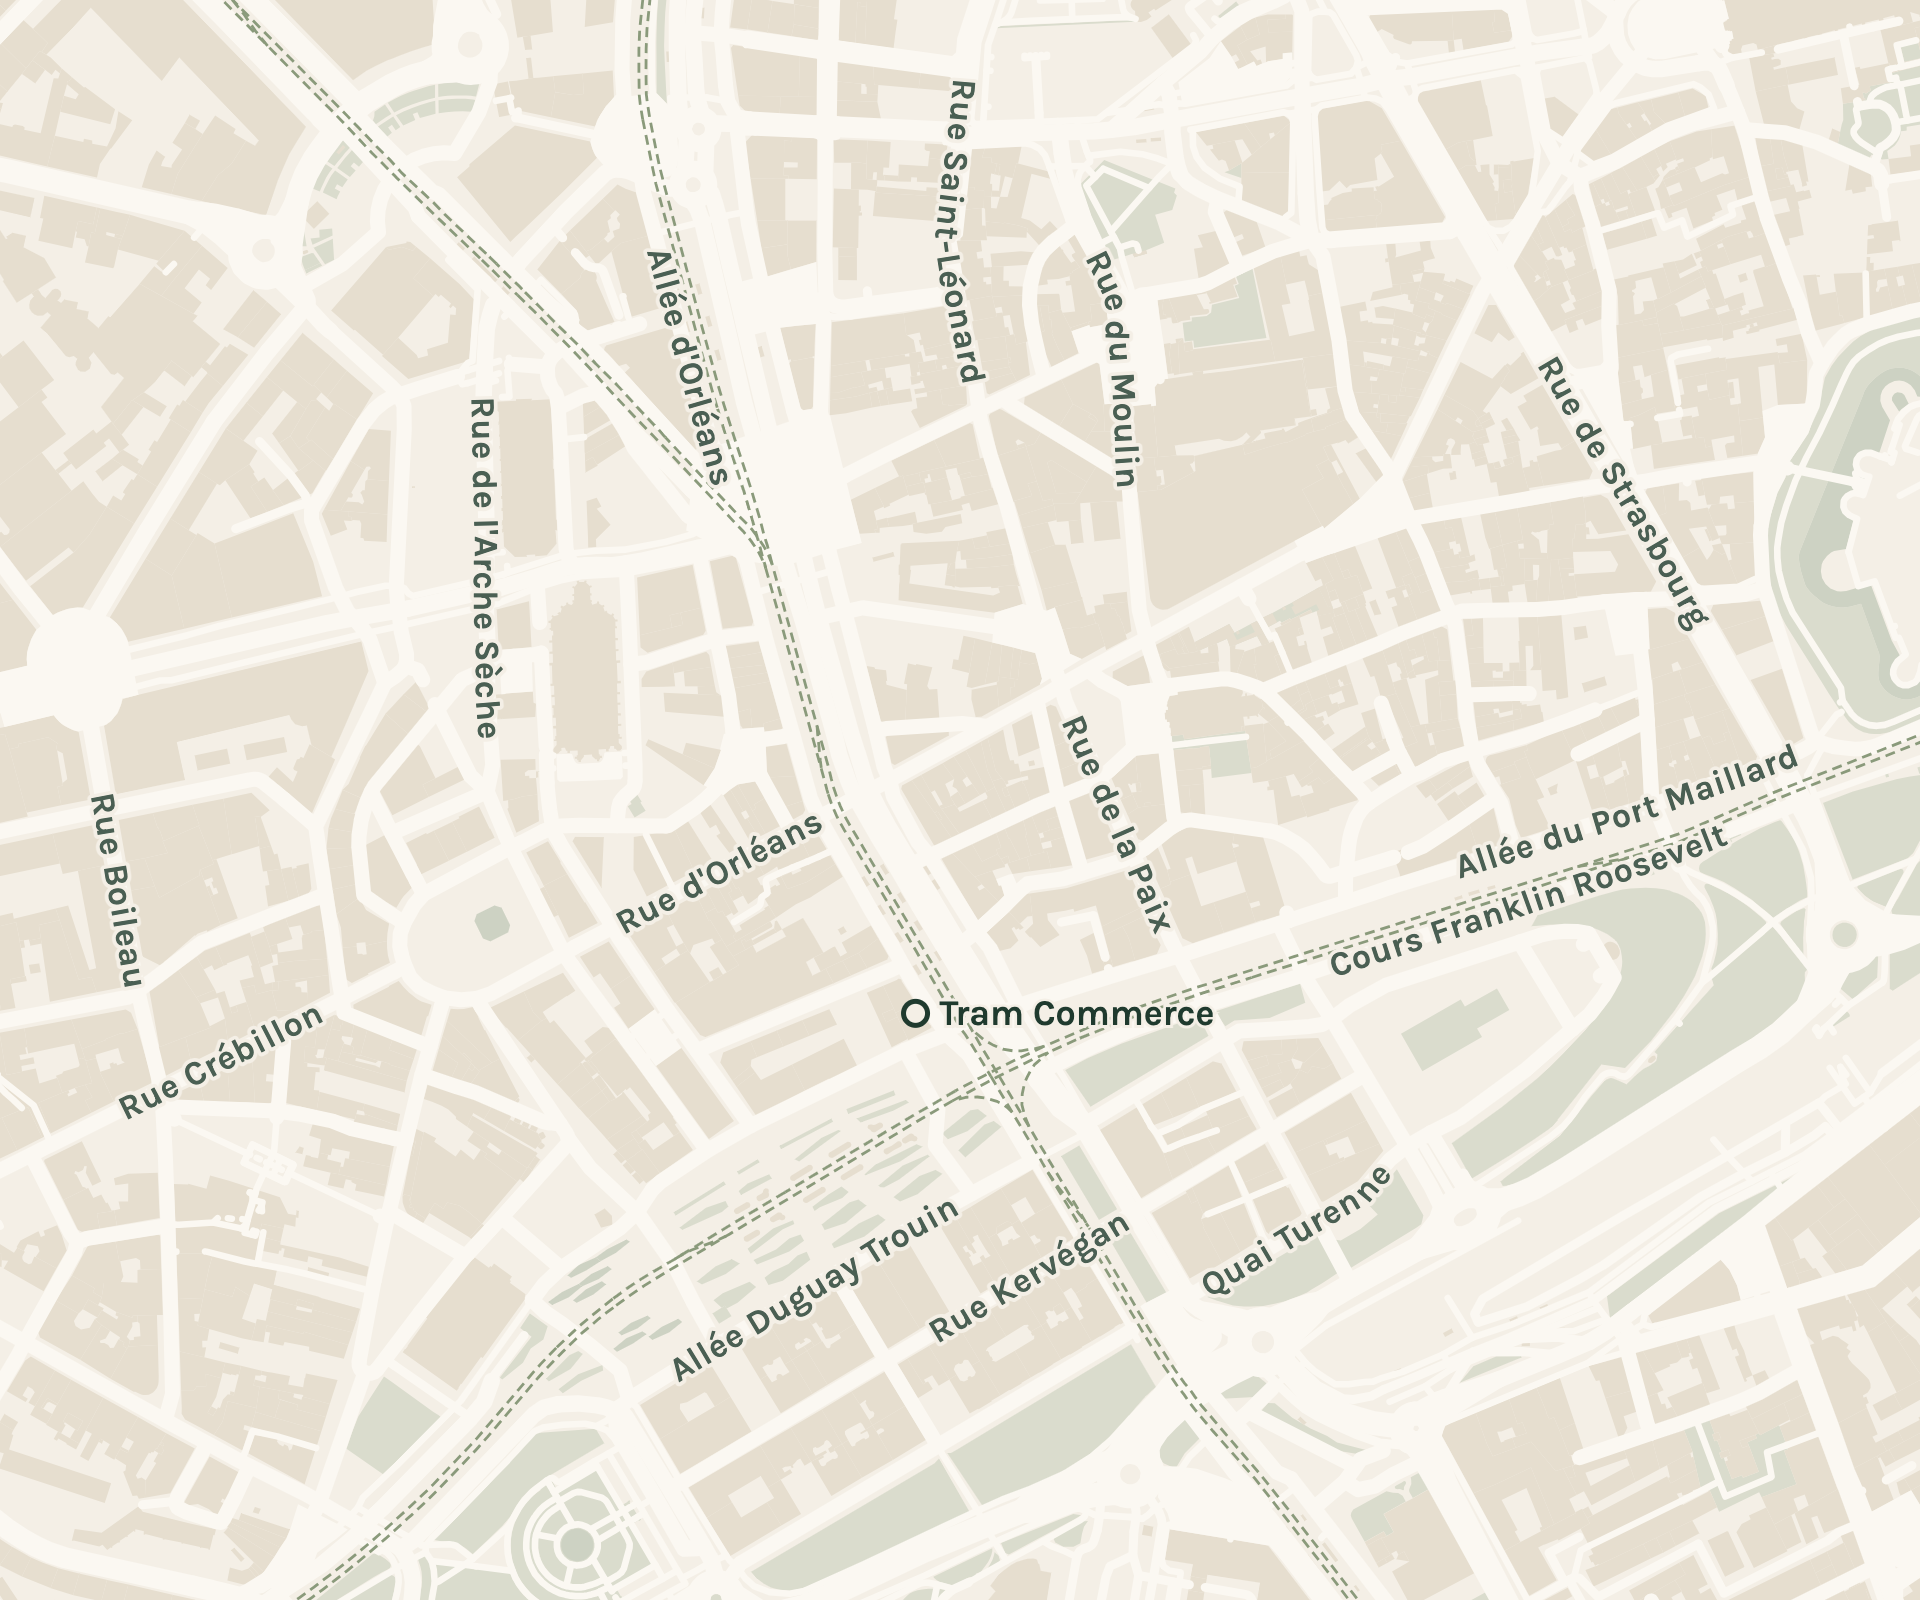
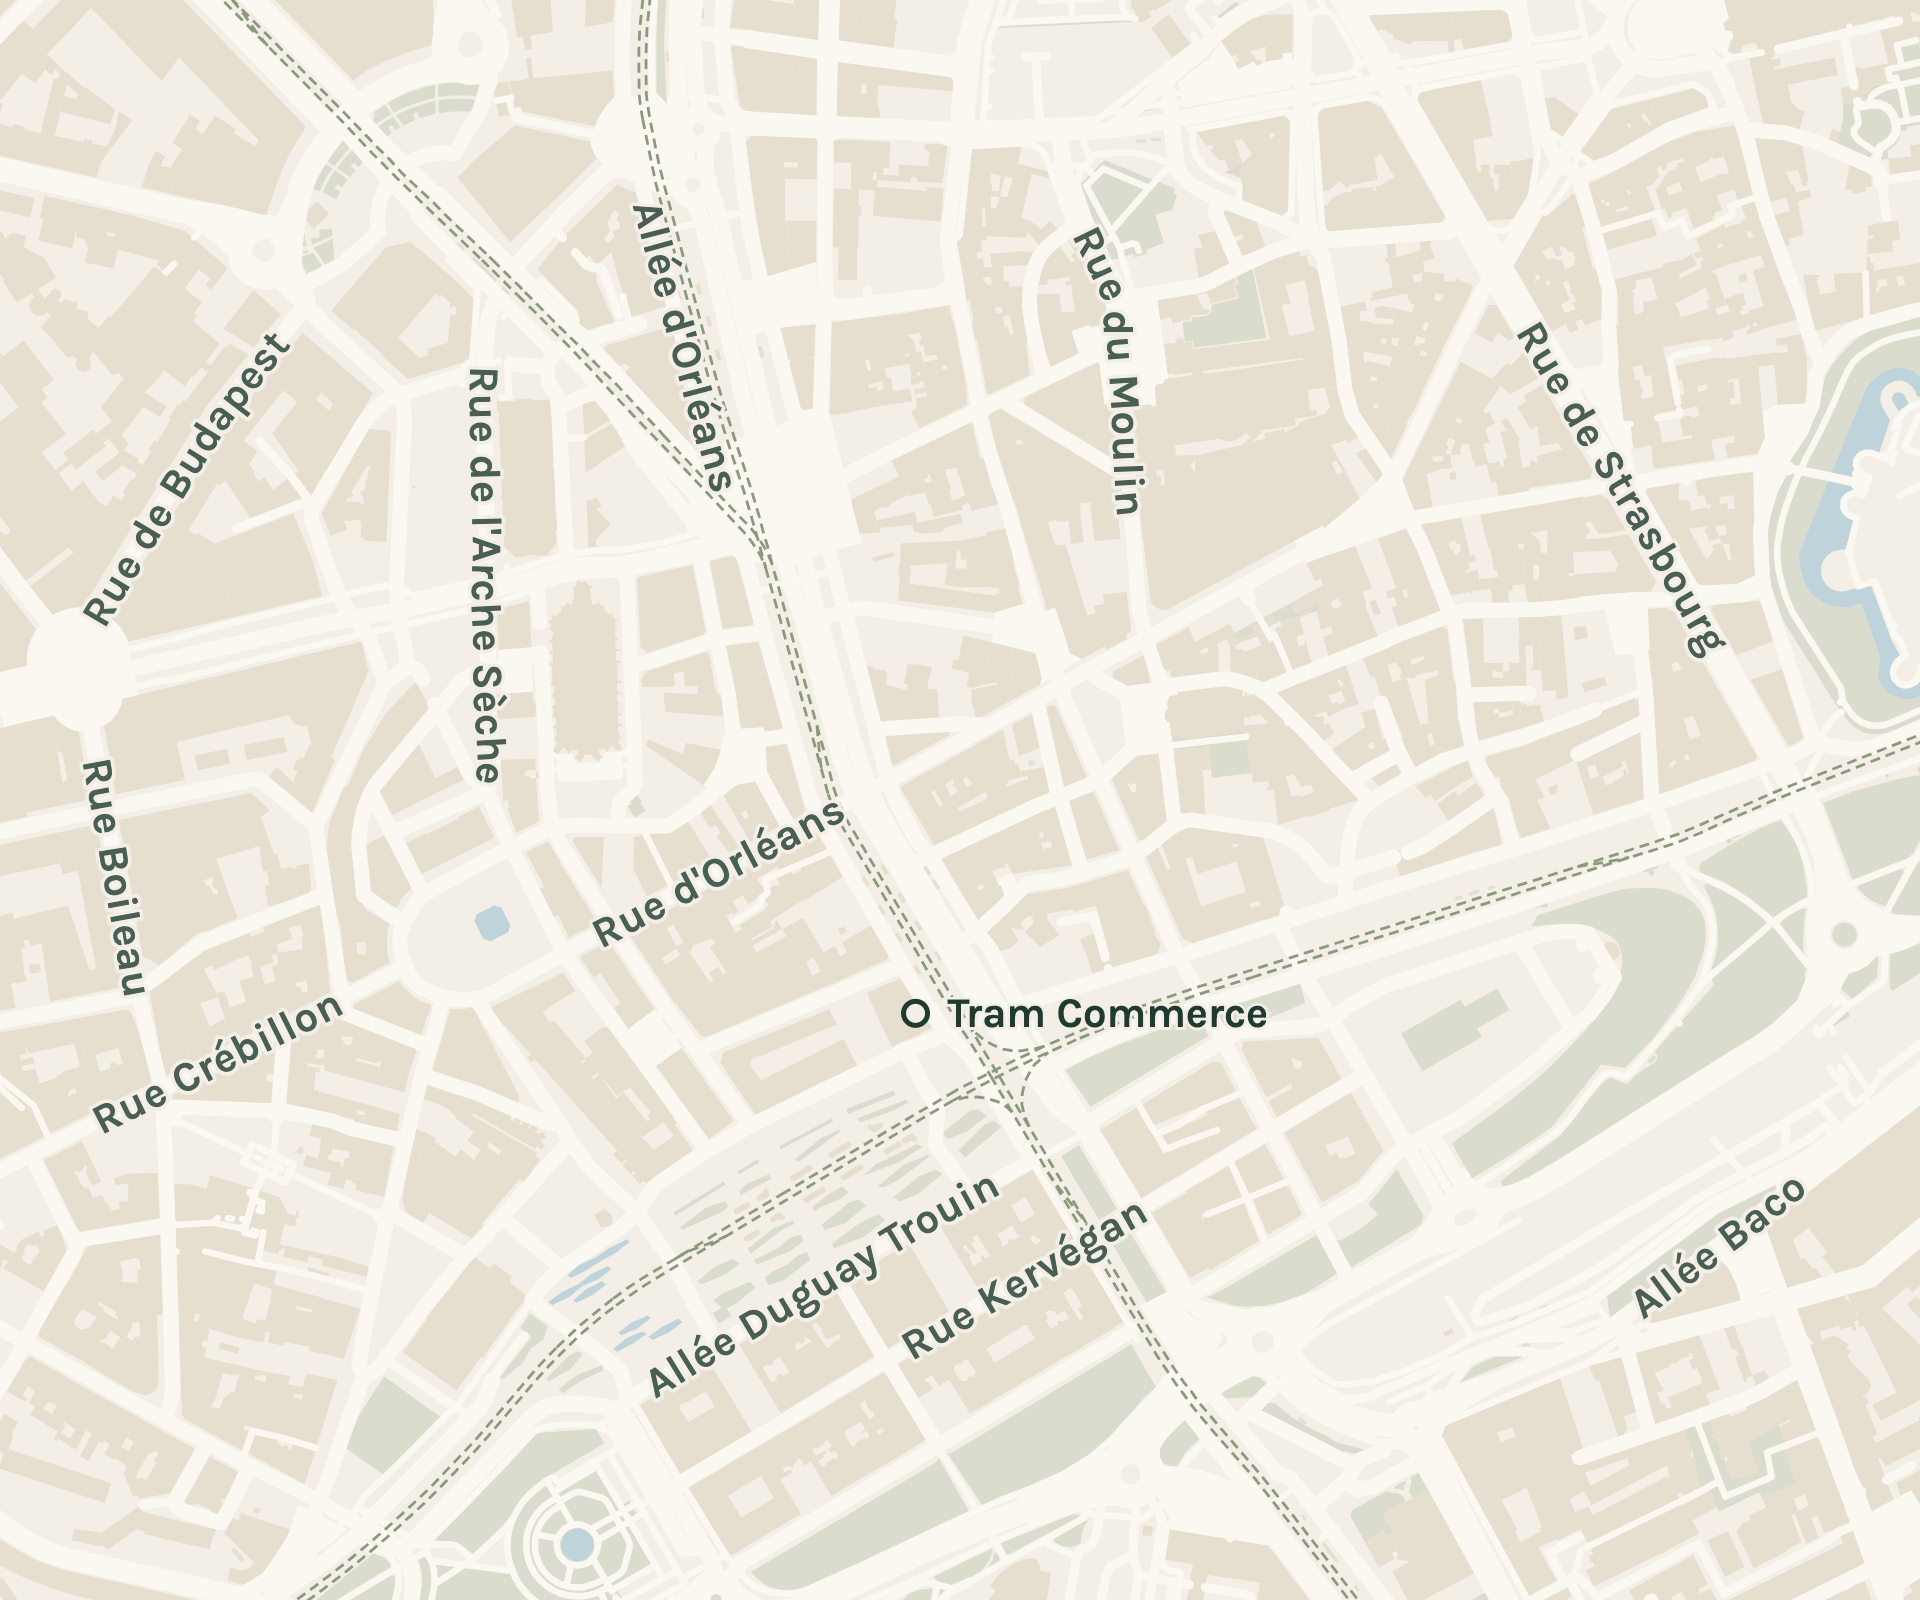
style: agrandit les noms de rues du plan et colore l'eau en bleu-gris

diff --git a/docs/direction-artistique.md b/docs/direction-artistique.md
@@ -124,7 +124,7 @@ Fond papier clair, filet lin, angles droits ; photo 240 px de haut en `object-fi
 7. Séparateur.
 8. **Quelques réalisations** (`#realisations`) : grille de 3 colonnes (2 sous 900 px), `gap: 40px 24px` ; ordre 1, 2, 3 / 4, 6 (sur 2 colonnes, seule photo en paysage) / 5, 7, 8 ; photos 440 px de haut (260 px sous 900 px), filet lin ; légende cartel, numérotée dans l'ordre d'affichage (N° 01 à N° 08). Sous 900 px, la photo en paysage n'occupe qu'une colonne (4 rangées de 2), recadrée sur le bouquet (`object-position: 66% 50%`). Texte alternatif = légende de `textes.md` § 6. Images différées.
 9. **Ils nous ont fait confiance** (`#avis`) : bande papier clair entre deux filets lin ; 3 cartes (`figure` > `blockquote` + `figcaption` « **Claire M.**, bouquet d'anniversaire ») sur fond papier, filet lin, padding 26 px, en grille `auto-fit, minmax(250px, 1fr)` ; guillemet décoratif (`aria-hidden`) au-dessus de la citation (21 px sous 900 px), signature sous un filet lin en Karla 15 sapin doux, le nom en 600 sapin ; puis « Avis fictifs (démo). » en Karla italique 15 sapin doux ; dessous, « Lire tous nos avis sur Google » en Karla 600 avec la flèche ↗ des liens sortants, en texte simple suivi de l'étiquette « fictif » (sur un vrai site : lien vers la fiche Google en nouvel onglet, jamais de widget d'avis, qui chargerait un script tiers et des traceurs).
-10. **Nous trouver** (`#nous-trouver`) : deux colonnes en `flex-wrap`. Gauche : h2, adresse (étiquette + texte), horaires dans un vrai `<table>` (`th scope="row"`, filets lin), accès. Droite : **plan statique** (aucune carte interactive, donc aucun piège clavier ni script tiers), 420 px de haut au moins, filet lin. Rendu depuis les données OpenStreetMap d'un quartier de Nantes, dans un style sur mesure en **niveaux de gris teintés de la palette** : fond papier, îlots lin, rues papier clair, eau et parcs en gris légèrement verdi, noms de rues en sapin doux ; seul élément de couleur, le repère pivoine (SVG G), posé en superposition. L'adresse étant fictive, le repère n'est posé sur aucune rue nommée et une légende l'indique : « Plan illustratif, adresse fictive. ». Attribution obligatoire « © contributeurs OpenStreetMap » (licence ODbL) en étiquette sous le plan. Export AVIF/WebP en plusieurs tailles, `alt` = l'adresse en clair, image différée. Réalisé avec `scripts/plan/` (voir `docs/stack.md`) : quartier de l'arrêt Commerce, îlots lin, rues papier clair, eau et parcs en sauge fondue dans le papier, ligne de tram en tirets sauge, arrêt « Tram Commerce » en sapin ; repère au cœur d'un îlot, à ~350 m de l'arrêt (5 min à pied). Cadre au format 6:5, 420 px de haut au moins : sur mobile, l'image est rognée (`object-fit: cover`) autour du repère, qui reste en place. Horaires : les plages ne se coupent jamais en fin de ligne. L'attribution est un lien vers openstreetmap.org/copyright (nouvel onglet annoncé, flèche ↗).
+10. **Nous trouver** (`#nous-trouver`) : deux colonnes en `flex-wrap`. Gauche : h2, adresse (étiquette + texte), horaires dans un vrai `<table>` (`th scope="row"`, filets lin), accès. Droite : **plan statique** (aucune carte interactive, donc aucun piège clavier ni script tiers), 420 px de haut au moins, filet lin. Rendu depuis les données OpenStreetMap d'un quartier de Nantes, dans un style sur mesure en **niveaux de gris teintés de la palette** : fond papier, îlots lin, rues papier clair, eau et parcs en gris légèrement verdi, noms de rues en sapin doux ; seul élément de couleur, le repère pivoine (SVG G), posé en superposition. L'adresse étant fictive, le repère n'est posé sur aucune rue nommée et une légende l'indique : « Plan illustratif, adresse fictive. ». Attribution obligatoire « © contributeurs OpenStreetMap » (licence ODbL) en étiquette sous le plan. Export AVIF/WebP en plusieurs tailles, `alt` = l'adresse en clair, image différée. Réalisé avec `scripts/plan/` (voir `docs/stack.md`) : quartier de l'arrêt Commerce, îlots lin, rues papier clair, parcs en sauge fondue dans le papier, eau en bleu-gris pâle `#BFD3DA` (seule couleur hors palette, réservée au décor du plan, jamais en texte ; demandée le 24/11), ligne de tram en tirets sauge, noms de rues en Karla 600 21 px (16 px environ à l'affichage en bureau), arrêt « Tram Commerce » en sapin ; repère au cœur d'un îlot, à ~350 m de l'arrêt (5 min à pied). Cadre au format 6:5, 420 px de haut au moins : sur mobile, l'image est rognée (`object-fit: cover`) autour du repère, qui reste en place. Horaires : les plages ne se coupent jamais en fin de ligne. L'attribution est un lien vers openstreetmap.org/copyright (nouvel onglet annoncé, flèche ↗).
 11. Séparateur.
 12. **Une envie de fleurs ?** (`#contact`) : gauche (max 460 px) : h2, texte, coordonnées sous un filet lin (étiquette + valeur) — téléphone en lien `tel:+33261912407`, e-mail et Instagram en texte simple suivis d'une étiquette « fictif ». Droite : formulaire en grille `auto-fit, minmax(220px, 1fr)` : Nom, E-mail ou téléphone, Objet (liste), Date souhaitée (facultatif), Message (pleine largeur), bouton principal « Envoyer ». À l'envoi : `preventDefault`, aucun envoi, message de démo de `textes.md` § 9 dans une zone `role="status"` / `aria-live="polite"` (fond papier clair, bord sapin doux).
 13. **Pied de page** : fond sapin, texte papier ; à gauche « Pistil & Ronce » (Cormorant 600 30, esperluette papier) et « Fleuriste à Nantes » ; à droite Mentions légales · Confidentialité ; en bas, sous un filet sapin doux, « Démo réalisée par Simon Dabin — boutique fictive. ».
